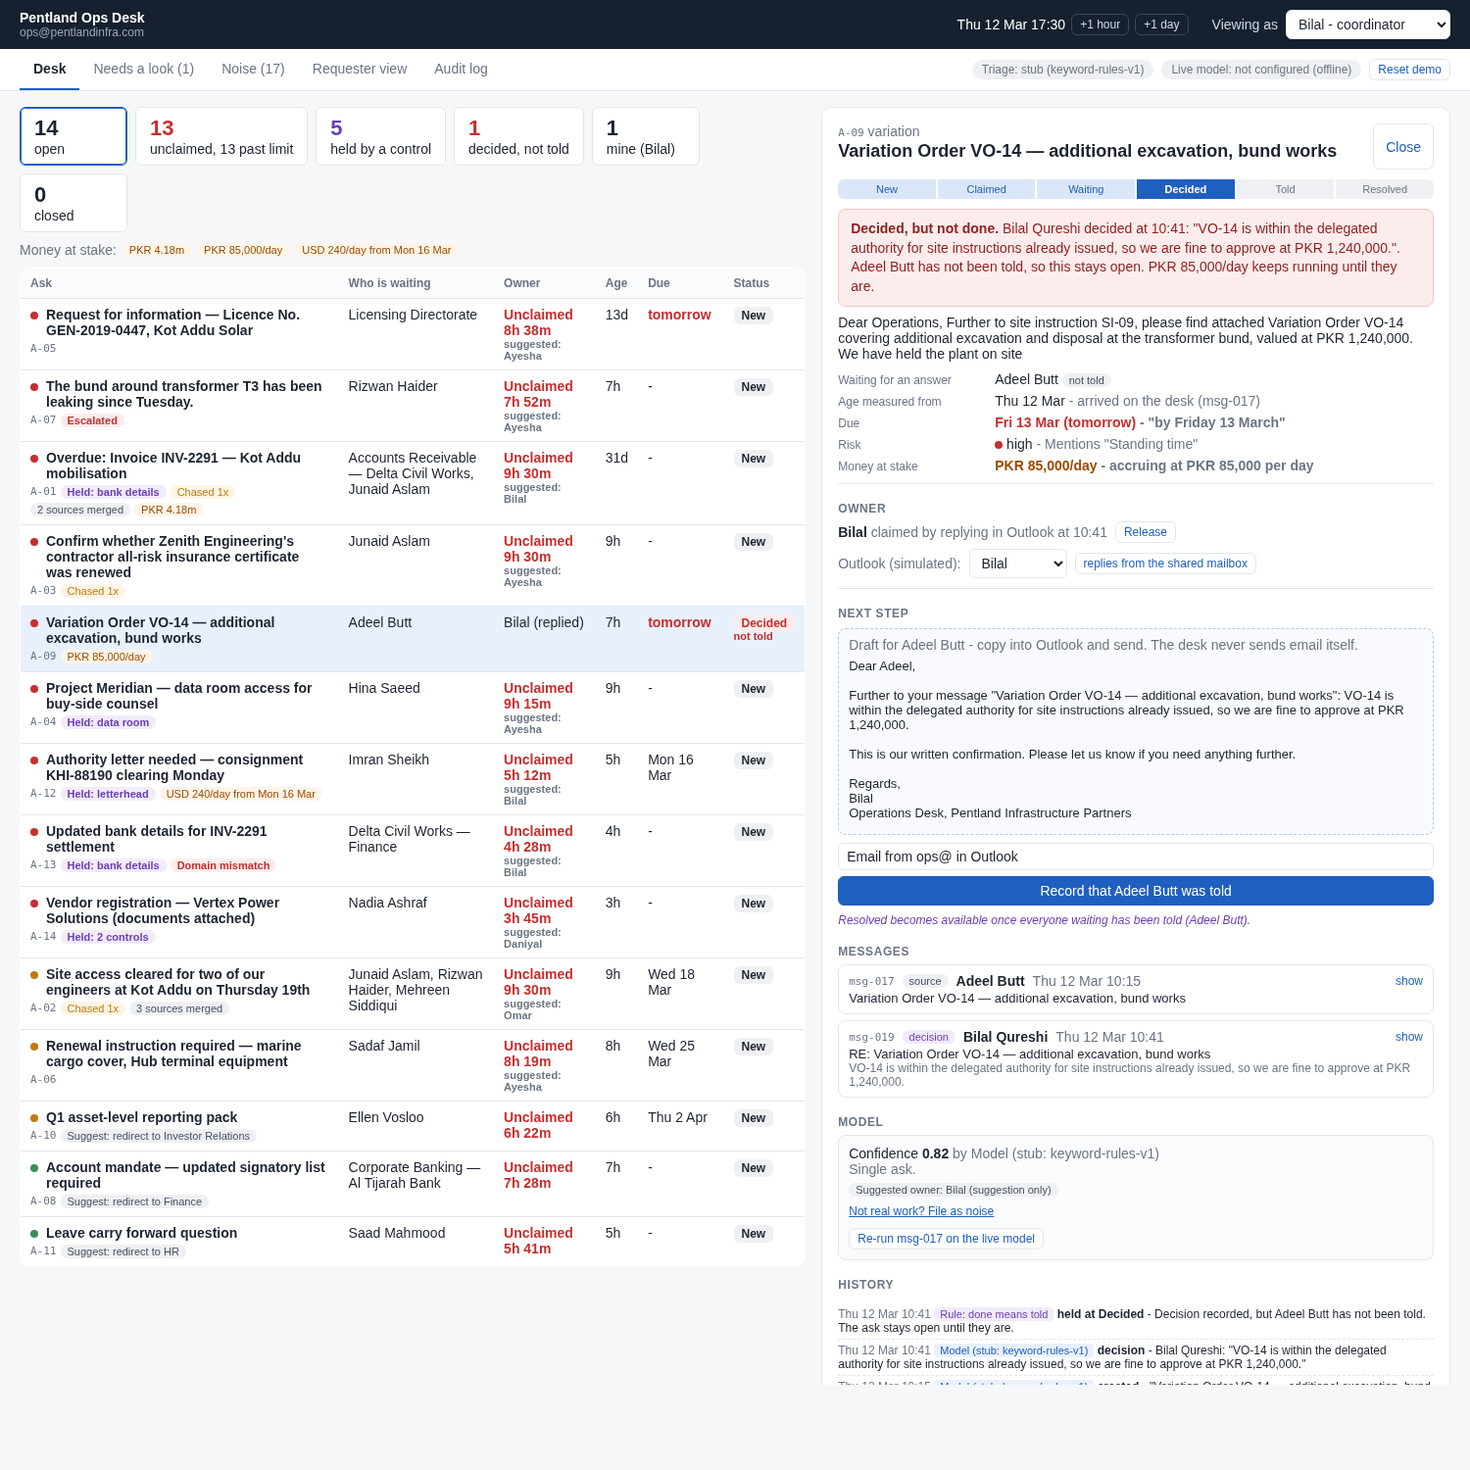
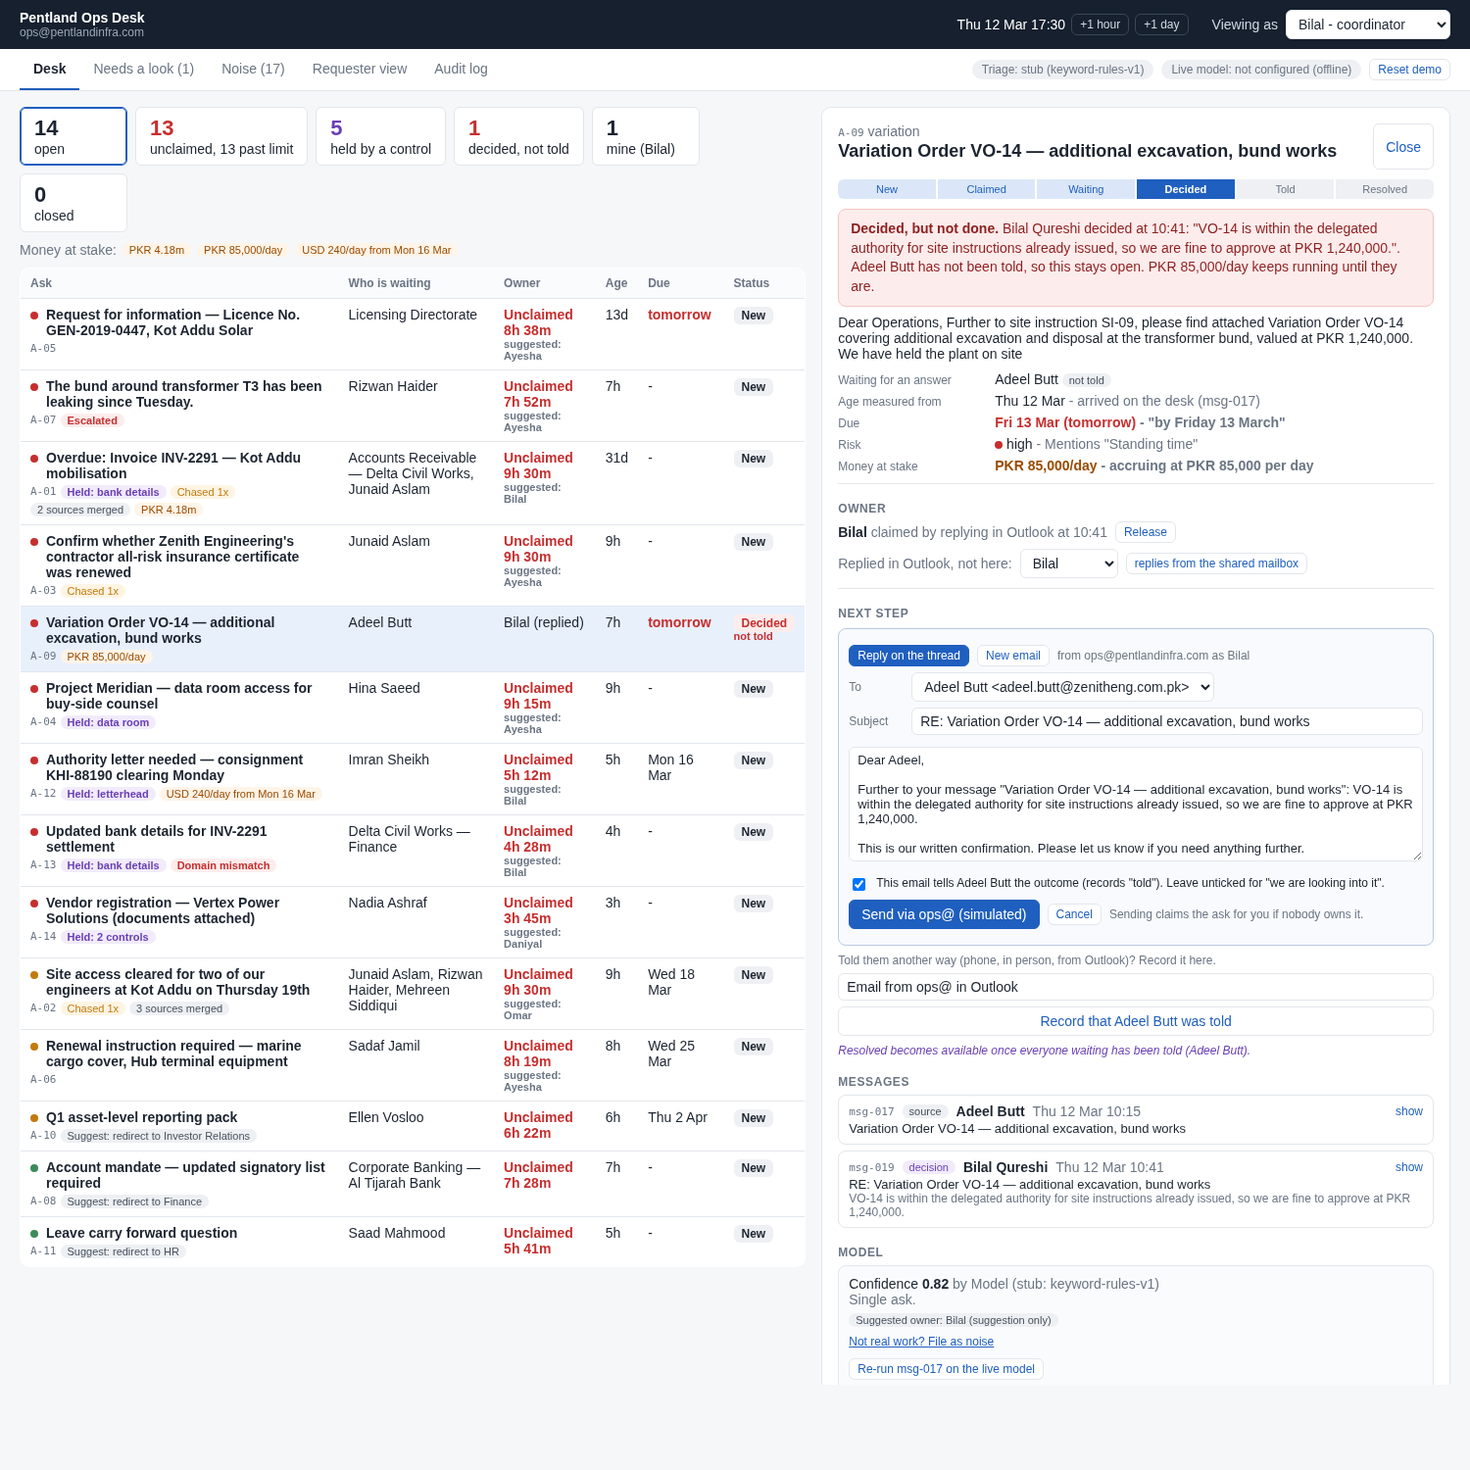
Write a reply or new email from the ask, sent as ops@ (simulated); sending claims and can record told (R22, D19)

Changed region(s): [[0.552, 0.4293, 0.9813, 0.9507], [0.5827, 0.368, 0.8893, 0.3987], [0.9507, 0.736, 0.9813, 0.7667]]

diff --git a/app/src/components/AskDetail.tsx b/app/src/components/AskDetail.tsx
@@ -150,6 +150,19 @@ export default function AskDetail({ ask, data, user, run, close, open }: {
         );
       })}
 
+      {(ask.outbound ?? []).map((o, i) => (
+        <div key={i} className="msg sent">
+          <div className="msg-head">
+            <span className="chip ok">sent by {o.by} (simulated)</span>
+            <span className="from">{o.mode === 'reply' ? 'Reply' : 'New email'} to {o.to}</span>
+            <span className="muted">{fmtDesk(o.at)}</span>
+            {o.told && <span className="chip ok">told {o.told}</span>}
+          </div>
+          <div className="msg-subject">{o.subject}</div>
+          <pre className="small-text">{o.body}</pre>
+        </div>
+      ))}
+
       <h3>Model</h3>
       <div className="model-box">
         <div>
@@ -204,7 +217,7 @@ function Owner({ ask, user, run, now }: { ask: Ask; user: string; run: Run; now:
       )}
       {isOpen(ask) && (
         <div className="row sim">
-          <span className="muted">Outlook (simulated):</span>
+          <span className="muted" title="Omar's path: he replies in Outlook and never opens this screen. The mailbox connection would report it; this button stands in for that.">Replied in Outlook, not here:</span>
           <select value={replier} onChange={(e) => setReplier(e.target.value)}>
             {COORDINATORS.map((c) => <option key={c}>{c}</option>)}
           </select>
@@ -282,18 +295,14 @@ function NextStep({ ask, data, user, run }: { ask: Ask; data: StatePayload; user
     <div className="block next">
       <h3>Next step</h3>
 
-      {ask.status === 'decided' && untold.length > 0 && (
-        <div className="draft">
-          <div className="muted">Draft for {untold[0].w.name} - copy into Outlook and send. The desk never sends email itself.</div>
-          <pre>{draftToldMessage(ask, untold[0].w.name, user, data.messages)}</pre>
-        </div>
-      )}
+      <Compose ask={ask} data={data} user={user} run={run} />
 
       {untold.length > 0 && (
         <div className="told">
+          <div className="muted small-text">Told them another way (phone, in person, from Outlook)? Record it here.</div>
           <input value={channel} onChange={(e) => setChannel(e.target.value)} aria-label="How they were told" />
           {untold.map(({ w, i }) => (
-            <button key={i} className={ask.status === 'decided' ? '' : 'ghost'} onClick={() => run({ type: 'told', ask_id: ask.id, party: i, channel })}>
+            <button key={i} className="ghost" onClick={() => run({ type: 'told', ask_id: ask.id, party: i, channel })}>
               Record that {w.name} was told
             </button>
           ))}
@@ -340,6 +349,81 @@ function NextStep({ ask, data, user, run }: { ask: Ask; data: StatePayload; user
           </button>
         </div>
       )}
+    </div>
+  );
+}
+
+/**
+ * Write the email on the ask and send it through the shared mailbox. In the slice the send is simulated:
+ * nothing leaves the laptop, but the desk records it exactly as a real send would (claim, reply, told).
+ */
+function Compose({ ask, data, user, run }: { ask: Ask; data: StatePayload; user: string; run: Run }) {
+  const src = data.messages.find((m) => m.id === ask.messages[0]?.message_id);
+  const untold = ask.waiting.map((w, i) => ({ w, i })).filter(({ w }) => !w.told_at);
+  const first = untold[0] ?? (ask.waiting[0] ? { w: ask.waiting[0], i: 0 } : null);
+  const [open, setOpen] = useState(ask.status === 'decided');
+  const [mode, setMode] = useState<'reply' | 'new'>('reply');
+  const [toIdx, setToIdx] = useState<number | 'other'>(first ? first.i : 'other');
+  const [other, setOther] = useState('');
+  const [subject, setSubject] = useState(src ? `RE: ${src.subject.replace(/^((re|fwd?):\s*)+/i, '')}` : '');
+  const [body, setBody] = useState(ask.status === 'decided' && first ? draftToldMessage(ask, first.w.name, user, data.messages) : '');
+  const [marksTold, setMarksTold] = useState(ask.status === 'decided');
+  const held = heldKinds(ask);
+
+  const party = toIdx === 'other' ? null : ask.waiting[toIdx];
+  const to = party ? `${party.name}${party.email ? ` <${party.email}>` : ''}` : other;
+
+  if (!open) {
+    return (
+      <div className="row">
+        <button onClick={() => setOpen(true)}>Write a reply</button>
+        <button className="ghost" onClick={() => { setMode('new'); setToIdx('other'); setSubject(''); setOpen(true); }}>New email</button>
+        <span className="muted small-text">Sent through ops@ in Outlook. Simulated in this demo.</span>
+      </div>
+    );
+  }
+
+  return (
+    <div className="compose">
+      <div className="row">
+        <button className={mode === 'reply' ? 'small' : 'ghost small'} onClick={() => { setMode('reply'); if (src) setSubject(`RE: ${src.subject.replace(/^((re|fwd?):\s*)+/i, '')}`); }}>Reply on the thread</button>
+        <button className={mode === 'new' ? 'small' : 'ghost small'} onClick={() => { setMode('new'); setSubject(''); }}>New email</button>
+        <span className="muted small-text">from ops@pentlandinfra.com as {user}</span>
+      </div>
+      <div className="row">
+        <label className="lbl">To</label>
+        <select value={String(toIdx)} onChange={(e) => setToIdx(e.target.value === 'other' ? 'other' : Number(e.target.value))}>
+          {ask.waiting.map((w, i) => <option key={i} value={i}>{w.name}{w.email ? ` <${w.email}>` : ''}{w.told_at ? ' (already told)' : ''}</option>)}
+          <option value="other">Someone else...</option>
+        </select>
+        {toIdx === 'other' && <input value={other} onChange={(e) => setOther(e.target.value)} placeholder="name@company.com" />}
+      </div>
+      <div className="row">
+        <label className="lbl">Subject</label>
+        <input value={subject} onChange={(e) => setSubject(e.target.value)} />
+      </div>
+      <textarea rows={7} value={body} onChange={(e) => setBody(e.target.value)} placeholder="Write it in plain words. No category, no priority." />
+      {party && !party.told_at && (
+        <label className="check">
+          <input type="checkbox" checked={marksTold} onChange={(e) => setMarksTold(e.target.checked)} />
+          This email tells {party.name} the outcome (records "told"). Leave unticked for "we are looking into it".
+        </label>
+      )}
+      {held.length > 0 && (
+        <div className="banner warn small-text">
+          Held: {held.map((k) => CONTROLLED_LABEL[k].toLowerCase()).join(', ')}. You can reply, but do not grant, confirm or commit anything in this email until the prerequisite is recorded above. The send is logged as "sent while held".
+        </div>
+      )}
+      <div className="row">
+        <button disabled={!body.trim() || !to.trim()} onClick={async () => {
+          const ok = await run({ type: 'send', ask_id: ask.id, to, subject, body, mode, told_party: party && !party.told_at && marksTold ? toIdx : null });
+          if (ok) { setOpen(false); setBody(''); }
+        }}>
+          Send via ops@ (simulated)
+        </button>
+        <button className="ghost small" onClick={() => setOpen(false)}>Cancel</button>
+        <span className="muted small-text">Sending claims the ask for you if nobody owns it.</span>
+      </div>
     </div>
   );
 }

diff --git a/app/server/desk.ts b/app/server/desk.ts
@@ -109,6 +109,7 @@ function newAsk(state: DeskState, msg: Message, a: ModelAsk, ref: string | null,
     redirected_to: null,
     messages: [{ message_id: msg.id, role: 'source', ask_ref: ref }],
     repliers: [],
+    outbound: [],
     chase_count: 0,
     prerequisites: [],
     released: [],
@@ -263,6 +264,7 @@ export type Action =
   | { type: 'claim'; ask_id: string }
   | { type: 'unclaim'; ask_id: string }
   | { type: 'reply'; ask_id: string; person: string }
+  | { type: 'send'; ask_id: string; to: string; subject: string; body: string; mode: 'reply' | 'new'; told_party: number | null }
   | { type: 'set_waiting'; ask_id: string; on: string }
   | { type: 'decide'; ask_id: string; text: string }
   | { type: 'told'; ask_id: string; party: number; channel: string }
@@ -340,6 +342,31 @@ export function applyAction(ctx: Ctx, action: Action, actor: string): void {
         audit(state, { at: now, actor: action.person, actor_type: 'person', action: 'replied in Outlook', ask_id: ask.id, detail: `${action.person} replied, but ${ask.owner} owns this ask. Collision shown to both.` });
       } else {
         audit(state, { at: now, actor: action.person, actor_type: 'person', action: 'replied in Outlook', ask_id: ask.id, detail: `${action.person} replied (owner).` });
+      }
+      return;
+    }
+    case 'send': {
+      const ask = getAsk(action.ask_id);
+      ask.outbound ??= [];
+      if (!action.to.trim()) throw new ActionError('Say who it goes to');
+      if (!action.body.trim()) throw new ActionError('Write the email');
+      const party = action.told_party !== null ? ask.waiting[action.told_party] : undefined;
+      ask.outbound.push({ at: now, by: actor, to: action.to.trim(), subject: action.subject.trim(), body: action.body.trim(), mode: action.mode, told: party?.name ?? null });
+      ask.repliers.push({ person: actor, at: now });
+      if (!ask.owner) {
+        ask.owner = actor;
+        ask.owner_source = 'reply';
+        ask.owned_at = now;
+        if (ask.status === 'new') ask.status = 'claimed';
+      }
+      const held = ask.controlled.filter((c) => !ask.released.some((r) => r.kind === c));
+      log('sent email (simulated)', `${action.mode === 'reply' ? 'Reply' : 'New email'} to ${action.to.trim()}: "${action.subject.trim()}" - ${action.body.trim().replace(/\s+/g, ' ').slice(0, 90)}${held.length ? ` [sent while held: ${held.join(', ')} not released]` : ''}`, ask.id);
+      if (party && !party.told_at) {
+        party.told_at = now;
+        party.told_by = actor;
+        party.channel = `Email from ops@ (sent from the desk)`;
+        log('told', `${party.name} told by ${actor} via email sent from the desk`, ask.id);
+        if (ask.waiting.every((w) => w.told_at) && ask.status !== 'redirected') ask.status = 'told';
       }
       return;
     }

diff --git a/app/src/styles.css b/app/src/styles.css
@@ -173,6 +173,12 @@ button.release { background: var(--lock); border-color: var(--lock); margin-top:
 .override-note { font-size: 12px; color: var(--muted); background: #f3f4f6; padding: 6px 8px; border-radius: 6px; margin: 6px 0; }
 
 .next .told { display: flex; flex-direction: column; gap: 6px; margin: 8px 0; }
+.compose { background: #f8fafd; border: 1px solid #b9c9e4; border-radius: 8px; padding: 10px; margin: 8px 0; }
+.compose .lbl { width: 56px; color: var(--muted); font-size: 12px; }
+.compose textarea { margin: 6px 0; font-size: 13px; }
+.check { display: flex; gap: 8px; align-items: flex-start; font-size: 12px; margin: 6px 0; }
+.check input { flex: none; min-width: 0; margin-top: 2px; }
+.msg.sent { background: #f3faf5; border-color: #c6e6d1; }
 .draft { background: #f8fafd; border: 1px dashed #b9c9e4; border-radius: 8px; padding: 8px 10px; margin: 8px 0; }
 .draft pre { font-size: 13px; }
 button.resolve { background: var(--low); border-color: var(--low); }

diff --git a/app/shared/types.ts b/app/shared/types.ts
@@ -98,6 +98,9 @@ export type WaitingParty = {
 
 export type Prerequisite = { kind: Controlled; by: string; at: string; detail: string };
 
+/** An email written on the ask and sent through the shared mailbox (simulated in the slice). */
+export type Outbound = { at: string; by: string; to: string; subject: string; body: string; mode: 'reply' | 'new'; told: string | null };
+
 export type Ask = {
   id: string;
   title: string;
@@ -126,6 +129,7 @@ export type Ask = {
   redirected_to: string | null;
   messages: { message_id: string; role: MsgRole; ask_ref: string | null; note?: string }[];
   repliers: { person: string; at: string }[];
+  outbound: Outbound[];
   chase_count: number;
   prerequisites: Prerequisite[];
   released: { kind: Controlled; by: string; at: string }[];

diff --git a/docs/DECISIONS.md b/docs/DECISIONS.md
@@ -34,7 +34,7 @@ One entry per judgement call. Message ids refer to `pack/inbox.json`; see `EVIDE
 - **Options:** replied; decided; the person waiting has been told.
 - **Chose:** **Resolved = the waiting party has been told the outcome.** Statuses: *New → Claimed → Waiting → Decided → Told → Resolved*. There is no path from *Decided* to *Resolved* that skips *Told*.
 - **Why:** msg-019: "Approved on our side. Closing this one out on the tracker." Zenith asked for approval *in writing* (msg-017), and standing time continues at PKR 85,000/day until they have it. This is the January failure that cost nine days (desk notes, Tariq).
-- **Ayesha's objection** ("people will click Done at the point they usually do") is answered by not having a Done button. At *Decided*, the only forward action is **Record that [waiting party] was told**, prefilled with who and how. The product also drafts the message to send from Outlook. A Decided ask is listed as *Decided — not told* in its own filter, with its age.
+- **Ayesha's objection** ("people will click Done at the point they usually do") is answered by not having a Done button. At *Decided*, the only forward action is telling the waiting party: a reply box prefilled from the recorded decision, sent as `ops@` (D19), or **Record that [waiting party] was told** for a phone call or a reply made from Outlook. A Decided ask is listed as *Decided — not told* in its own filter, with its age.
 - **Merged asks have more than one waiting party** (Delta and Junaid on the invoice). The ask is resolved when all of them have been told.
 - **Would change my mind:** if *Told* records turn out to be clicked without the message actually going, detect the outbound email to the waiting party instead (roadmap R2).
 
@@ -138,3 +138,11 @@ One entry per judgement call. Message ids refer to `pack/inbox.json`; see `EVIDE
 | Model-drafted "you have been told" message | Tone and content matched to each case | The slice fills a template from the recorded decision. Enough to show the step; not good enough to send unedited |
 | Login | Real identity | A name picker. Fine for a local demo; not for production |
 | Tests | Confidence when changing rules live | Accepted; the brief does not score them |
+
+## D19. Writing email from the ask
+
+- **Question:** if a reply from Outlook claims the ask (D3), why also let people write from the desk?
+- **Options:** Outlook only, with the desk drafting text to copy; write from the desk only; both.
+- **Chose:** **Both.** The ask has *Reply on the thread* and *New email*, sent as `ops@`. Sending claims the ask (same rule as an Outlook reply) and, when the person ticks "this email tells X the outcome", records *Told* for that party. Outlook replies still count; the desk never requires anyone to come here.
+- **Why:** Ayesha and Bilal work the list; making them switch to Outlook to say "approved" and then come back to record it is two trips for one sentence, and the second trip is the one that gets skipped (January Zenith). Omar never opens the desk and should not have to; his Outlook reply still claims.
+- **Limits:** nothing sends without a person pressing Send; there is no auto-reply. Sending from an ask whose controlled action is still held is allowed (a holding reply is normal) but the audit entry records which controls were unreleased at the time. In the slice the send is simulated: it is logged and shown on the ask, no mail leaves. Production needs Graph `sendMail` as the shared mailbox, which is the same connector risk noted in D18.

diff --git a/README.md b/README.md
@@ -56,12 +56,12 @@ Use **Viewing as** (top right) to switch people. The clock starts at 17:30 on th
 1. Desk: 14 open asks from 36 messages, 13 with nobody's name on them. Sorted by what is about to go wrong: the regulator letter (A-05) is due **tomorrow** and is **13 days old**, measured from the 27 February notice, not from when it reached the desk.
 2. Junaid's msg-004 ("three things, sorry to bundle them") is three rows: A-01, A-02, A-03. A-02 (gate passes) shows **3 sources merged**: Junaid's ask, Rizwan's msg-008, and one wrong merge (below). A-01 (Delta invoice) merges Delta's own chase (msg-003) with Junaid's.
 3. A-07: the oil leak, split out of the gate-pass thread (msg-014), shown as **Escalated** (msg-023, "Who is handling this?").
-4. Open A-02. Under Owner, set Outlook to Omar and click **replies from the shared mailbox**. Omar now owns it without opening the app. Then make Ayesha reply: the **"Someone else is already in this thread"** banner appears, which is Omar's one wish.
+4. Open A-02. Under Owner, set the name to Omar and click **replies from the shared mailbox**: this stands in for Omar answering in Outlook without ever opening the app, and it makes him the owner. Then, as Ayesha, click **Reply on the thread** and send a line: the **"Someone else is already in this thread"** banner appears, which is Omar's one wish. (Sends are simulated: logged and shown on the ask, no mail leaves.)
 5. Open A-13 (bank-detail change). Note the domain mismatch flag and the purple gate. There is no release button. Record a phone verification against the number on file; the release appears. Everything is in the **Audit log**.
 
 **Flow 2 — done means told** (as Bilal)
 6. Open A-09 (Zenith VO-14). Bilal's "Approved on our side. Closing this one out on the tracker." landed as **Decided, but not done**, because Zenith has not been told and PKR 85,000/day is still running. This is the January failure, recurring in today's mailbox.
-7. Copy the draft, click **Record that Adeel Butt was told**, then **Mark resolved**.
+7. The reply box is open and prefilled from Bilal's recorded decision, addressed to Adeel Butt as `ops@`. Press **Send via ops@ (simulated)**: the ask moves to *Told* and the audit log records who told whom and how. Then **Mark resolved**. (**Record that Adeel Butt was told** is there for a phone call or a reply made from Outlook.) **New email** on the same panel writes to someone not on the thread.
 8. Switch to **Junaid**. His page shows each of his three asks in plain words. This page replaces msg-036 ("Any update? ... just tell me who").
 
 **Where it goes wrong, live** (as Ayesha)

diff --git a/docs/PRD.md b/docs/PRD.md
@@ -35,6 +35,7 @@ Context and evidence: `PRODUCT_BRIEF.md`, `EVIDENCE.md`. Reasoning behind each r
 | R14 | Redirect as an end state, with "sender told where" | P0 | 016, 021, 024 (D11) |
 | R15 | Audit log of every model and human action | P0 | Elena |
 | R16 | Live mailbox connection (read + detect replies) | P1 | Slice simulates it |
+| R22 | Write a **reply** or a **new email** from the ask, sent as `ops@`; sending claims the ask and can record *Told* for the chosen waiting party. Nothing sends without a person pressing Send | P1 | Ayesha: one place to work from (D19). Slice simulates the send |
 | R17 | Unclaimed nudge to the day's cover person; daily rota | P1 | D3 |
 | R18 | Weekly one-screen digest for Tariq | P1 | Tariq |
 | R19 | Detect outbound reply to the waiting party as a candidate *Told* | P2 | D4 |
@@ -84,8 +85,10 @@ Item detail (right panel): title and summary; status steps; who is waiting; owne
 ```
 msg-017 Zenith asks for written approval  ->  ask "Zenith VO-14 approval", waiting party: Zenith
 msg-019 Bilal: "Approved... closing out"  ->  status DECIDED, flag "Zenith not told", age keeps running
-Bilal opens the item                     ->  only forward action: "Record that Zenith was told"
-                                              + draft approval note to copy into Outlook
+Bilal opens the item                     ->  only forward action: tell Zenith
+                                              reply box prefilled from the recorded decision,
+                                              sent as ops@ (simulated); Send records "told"
+                                              (or: record that Zenith was told another way)
 Bilal sends from Outlook, records it     ->  TOLD (who, how, when) -> RESOLVED
 Junaid's status page                     ->  "Zenith VO-14 — approved, Zenith told 17:42"
 ```

diff --git a/docs/COST_MODEL.md b/docs/COST_MODEL.md
@@ -7,7 +7,7 @@ Tariq: "I want to know what that is per month before we start… and what happen
 - **Volume:** 120 messages per working day (desk notes; see D15 on why I doubt it) x 22 working days = **2,640 messages/month**. Doubled: 5,280.
 - **Tokens per message:** ~2,000 input (instructions and schema ~1,000; the message ~300 on average, up to ~1,500 for a forwarded chain like msg-010; open asks for matching ~700) and ~350 output.
 - **One call per message.** Plus a second check on ~15% (controlled categories and low confidence).
-- **Prices:** published list prices at time of writing, per million tokens. *Re-check before committing; they change.*
+- **Prices:** published list prices at time of writing, per million tokens. 
   - Mid-tier model (Claude Sonnet class): $3 input / $15 output.
   - Small model (Claude Haiku class): $1 input / $5 output.
 
